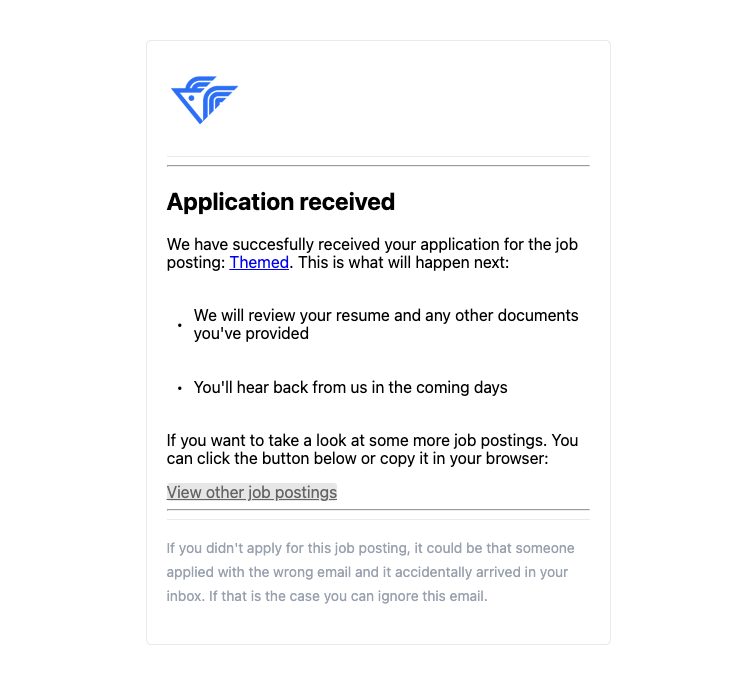
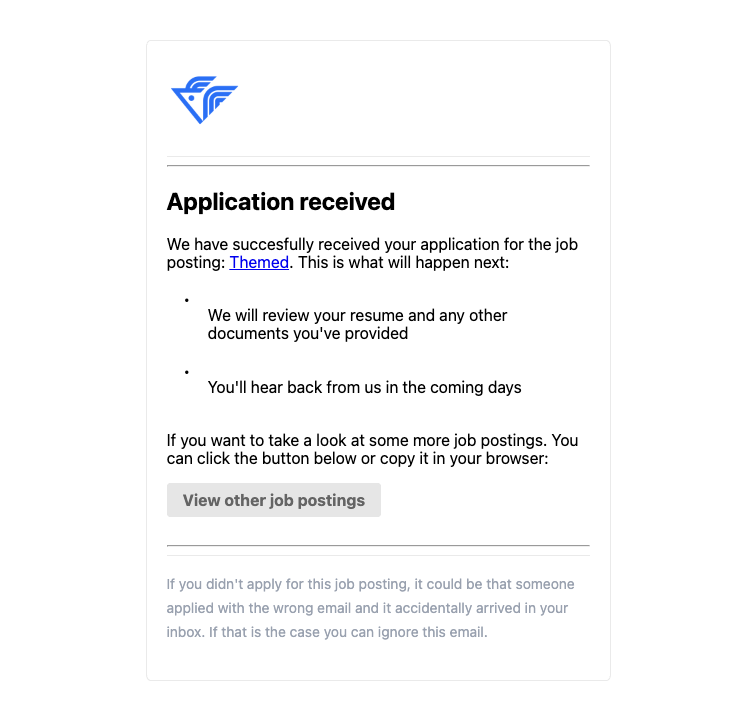
add inline styles

diff --git a/defaults.go b/defaults.go
@@ -9,16 +9,18 @@ const DefaultConfirmBodyHTML = `<hr>` +
 	`<a href="$.job_posting_href$">$.job_title$</a>. This is what will happen next:</p>` +
 	`<table>` +
 	`<tr>` +
-	`<td align="center" class="pl-2" width="20">&bull;</td>` +
-	`<td class="pl-2"><p>We will review your resume and any other documents you&#39;ve provided</p></td>` +
+	`<td align="center" style="padding-left:8px;width:20px;vertical-align:top">&bull;</td>` +
+	`<td style="padding-left:8px"><p>We will review your resume and any other documents you&#39;ve provided</p></td>` +
 	`</tr>` +
 	`<tr>` +
-	`<td align="center" class="pl-2" width="20">&bull;</td>` +
-	`<td class="pl-2"><p>You&#39;ll hear back from us in the coming days</p></td>` +
+	`<td align="center" style="padding-left:8px;width:20px;vertical-align:top">&bull;</td>` +
+	`<td style="padding-left:8px"><p>You&#39;ll hear back from us in the coming days</p></td>` +
 	`</tr>` +
 	`</table>` +
 	`<p>If you want to take a look at some more job postings. You can click the button below or copy it in your browser:</p>` +
-	`<a href="$.career_site_homepage_href$" class="bg-blue-500 hover:bg-blue-700 mb-5 text-white font-bold py-2 px-4 rounded sd-theme-button">View other job postings</a>` +
+	`<a href="$.career_site_homepage_href$" ` +
+	`style="background-color:#3b82f6;color:#ffffff;font-weight:700;padding:8px 16px;border-radius:0.25rem;text-decoration:none;display:inline-block;margin-bottom:20px" ` +
+	`class="sd-theme-button">View other job postings</a>` +
 	`<hr>`
 
 // DefaultDeclineBodyHTML is the default body_html for job-application-decline emails.
@@ -31,4 +33,6 @@ const DefaultDeclineBodyHTML = `<hr>` +
 	`unfortunately, you won&#39;t be moving forward for this role. ` +
 	`We appreciate the time you took to apply and encourage you to explore ` +
 	`other opportunities that might be a great fit for you.</p>` +
-	`<a href="$.career_site_homepage_href$" class="bg-blue-500 hover:bg-blue-700 mb-5 text-white font-bold py-2 px-4 rounded sd-theme-button">View Job Postings</a>`
+	`<a href="$.career_site_homepage_href$" ` +
+	`style="background-color:#3b82f6;color:#ffffff;font-weight:700;padding:8px 16px;border-radius:0.25rem;text-decoration:none;display:inline-block;margin-bottom:20px" ` +
+	`class="sd-theme-button">View Job Postings</a>`
